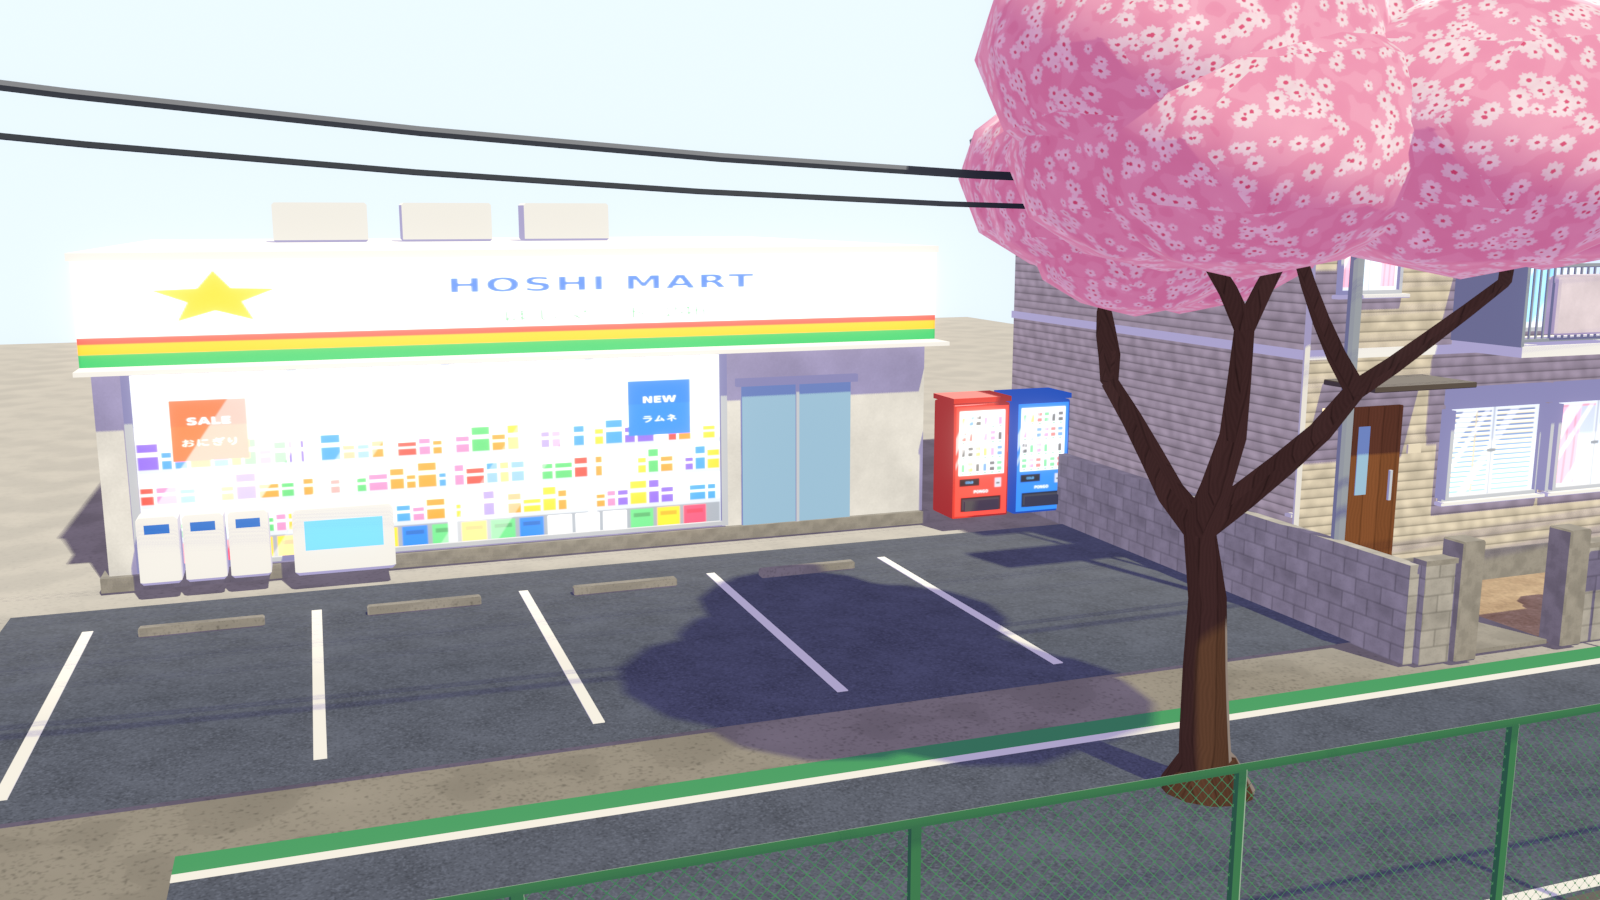
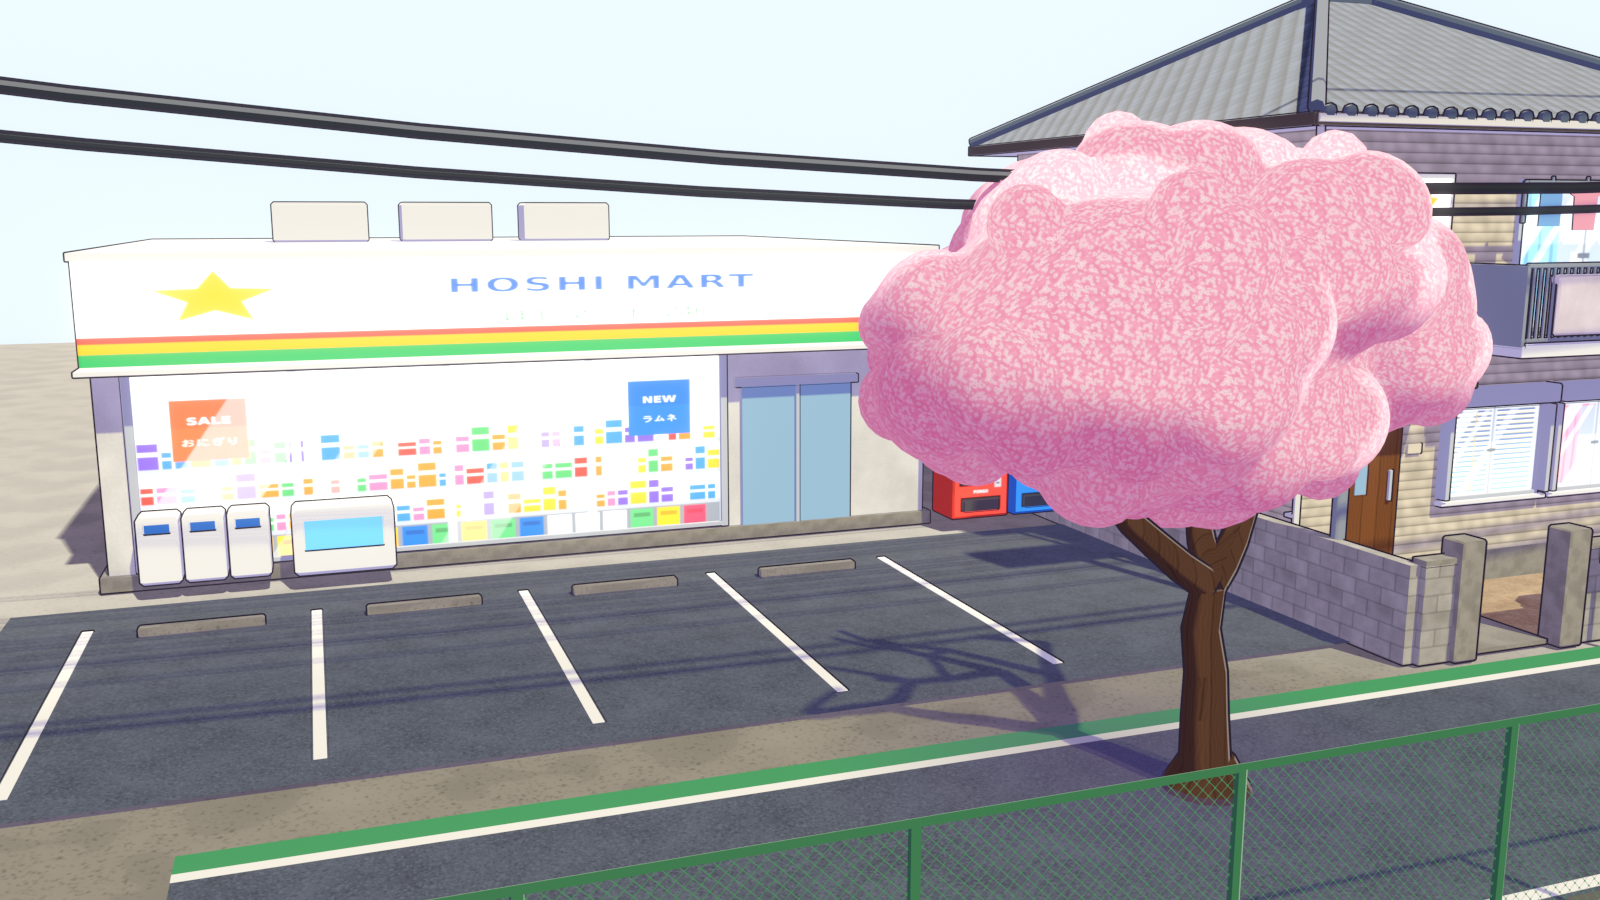
City kit polish: Ghibli-method sakura, crossing approaches, surface finish
- Sakura: branching trunk + canopy from a smooth voxel hull of limb-tip clouds,
  scalloped by puff bumps, shaded with the hull normals (one soft mass, clean
  shadow side), canopy does not self-shadow, blob ground shadow decal
- Level crossing: deck flush with the rail heads, sloped road approaches
- Street render: bevel + weighted normals on buildings/props, ink outlines,
  barrier arms placed at the crossing
- erlib: no-cast materials also skip shadows in Blender renders

Claude-Session: https://claude.ai/code/session_01EYpF4cduPNxQ6Ws8Cp9mAz

diff --git a/blender/assets/buildings.py b/blender/assets/buildings.py
@@ -655,49 +655,116 @@ def konbini(name="konbini", lod=0):
 # ----------------------------------------------------------------------------- sakura tree
 
 def sakura(name="sakura", seed=1, height=6.5, lod=0):
-    """Cherry tree: twisting trunk, forked limbs, blossom clouds at the branch tips."""
+    """Cherry tree, Ghibli method (Lightning Boy Studio): a branching trunk, then for each limb tip a cloud
+    of small blossom puffs scattered through an ellipsoid volume; all puffs take their normals from a smooth
+    hull of the clouds, so the canopy shades as one soft mass with a clean light/shadow split while the
+    silhouette stays bumpy and alive. Returns (trunk, canopy)."""
+    import characters as CH
     rnd = random.Random(seed)
     E.mat("bark", 0x5E4438, "t_wood", soft=0.15, rim=0.2, outline=1.0)
-    E.mat("blossom", 0xFFFFFF, "t_blossom", soft=0.35, rim=0.35, outline=1.0, flags=E.F_FOLIAGE, sway=0.35,
-          shadow=0xC79AC8)
-    m = E.Mesher(name)
+    E.mat("blossom", 0xFFFFFF, "t_blossom", soft=0.3, rim=0.3, outline=0.0, flags=E.F_FOLIAGE | E.F_NOCAST, sway=0.35,
+          shadow=0xC890C4)
+    E.mat("tree_shadow", 0x5A4A7A, "s_blob", flags=E.F_DECAL | E.F_NOCAST, outline=0.0, rim=0.0, soft=0.2)
+    m = E.Mesher(name + "_trunk")
     tips = []
 
     def branch(p, d, length, r, depth):
         pts = [p]
         q = Vector(p)
         dd = Vector(d).normalized()
-        n = 4 if lod == 0 else 2
+        n = 5 if lod == 0 else 2
         for i in range(n):
-            dd = (dd + Vector(((rnd.random() - 0.5) * 0.5, (rnd.random() - 0.5) * 0.5, 0.12))).normalized()
+            dd = (dd + Vector(((rnd.random() - 0.5) * 0.45, (rnd.random() - 0.5) * 0.45, 0.1))).normalized()
             q = q + dd * (length / n)
             pts.append(q.copy())
         m.mat("bark", uvscale=0.6)
-        m.tube([tuple(v) for v in pts], r=r, seg=10 if lod == 0 and depth < 2 else 6, taper=0.55)
-        if depth >= 3 or r < 0.05:
-            tips.append((q, r))
+        m.tube([tuple(v) for v in pts], r=r, seg=12 if lod == 0 and depth < 2 else 7, taper=0.6)
+        if depth == 2:
+            tips.append(q)
+        if depth >= 3 or r < 0.045:
+            tips.append(q)
             return
         k = 2 if depth > 0 else 3
         for j in range(k):
-            a = rnd.random() * 2 * math.pi
-            nd = (dd * 0.6 + Vector((math.cos(a), math.sin(a), 0.35)) * 0.8).normalized()
-            branch(q, nd, length * (0.62 + rnd.random() * 0.15), r * 0.58, depth + 1)
+            a = rnd.random() * 2 * math.pi + j * 2.1
+            nd = (dd * 0.35 + Vector((math.cos(a), math.sin(a), 0.22)) * 0.9).normalized()
+            branch(q, nd, length * (0.68 + rnd.random() * 0.15), r * 0.6, depth + 1)
 
-    trunk_h = height * 0.38
-    branch(Vector((0, 0, -0.1)), Vector((0.05, 0.02, 1)), trunk_h, 0.24, 0)
-    # root flare
+    branch(Vector((0, 0, -0.1)), Vector((0.06, 0.02, 1)), height * 0.3, 0.23, 0)
     m.mat("bark", uvscale=0.6)
-    m.cyl((0, 0, 0.12), r=0.42, r2=0.24, h=0.3, seg=12 if lod == 0 else 6)
-    # blossom clouds: clusters of displaced icospheres around tips
-    m.mat("blossom", uvscale=1.2)
-    for (q, r) in tips:
-        n = 3 if lod == 0 else 1
-        for i in range(n):
-            o = Vector(((rnd.random() - 0.5) * 1.2, (rnd.random() - 0.5) * 1.2, (rnd.random() - 0.2) * 0.6))
-            rad = 0.75 + rnd.random() * 0.5
-            m.ico(tuple(q + o), r=rad, sub=2 if lod == 0 else 1, s=(1.15, 1.15, 0.8))
-    ob = m.obj(name + ("" if lod == 0 else "@1"), smooth_angle=60)
-    return ob
+    m.cyl((0, 0, 0.12), r=0.4, r2=0.23, h=0.3, seg=14 if lod == 0 else 7)
+    trunk = m.obj(name + "_trunk" + ("" if lod == 0 else "@1"), smooth_angle=60)
+    # clouds: one ellipsoid per limb tip (slightly flattened, Ghibli-style)
+    clouds = []
+    for q in tips:
+        c = q + Vector(((rnd.random() - 0.5) * 0.4, (rnd.random() - 0.5) * 0.4, 0.15 + rnd.random() * 0.25))
+        rad = Vector((1.2, 1.2, 0.8)) * (0.9 + 0.4 * rnd.random())
+        clouds.append((c, rad))
+    # canopy = smooth hull of the clouds, scalloped by puff-shaped bumps; shading keeps the hull normals
+    def hull(mm):
+        for (c, rad) in clouds:
+            mm.sphere(tuple(c), 1.0, 20, 12, s=tuple(rad * 1.05))
+    canopy = CH.sculpt_union(name + "_canopy" + ("" if lod == 0 else "@1"), hull, "blossom",
+                             voxel=0.07 if lod == 0 else 0.14, smooth_iter=24, smooth_fac=0.8,
+                             ratio=0.6 if lod == 0 else 0.35)
+    me = canopy.data
+    vs = me.vertices
+    base_n = [v.normal.copy() for v in vs]
+    base_p = [v.co.copy() for v in vs]
+    # puff centres: random hull points, denser on top
+    idx = list(range(len(vs)))
+    rnd.shuffle(idx)
+    centres = []
+    for i in idx[: (130 if lod == 0 else 60)]:
+        rr = 0.28 + 0.26 * rnd.random()
+        centres.append((base_p[i], rr, 0.2 + 0.16 * rnd.random()))
+    from mathutils.kdtree import KDTree
+    kd = KDTree(len(centres))
+    for k, (c, rr, hh) in enumerate(centres):
+        kd.insert(c, k)
+    kd.balance()
+    for i, v in enumerate(vs):
+        bump = 0.0
+        for (co, k, d) in kd.find_range(base_p[i], 0.7):
+            c, rr, hh = centres[k]
+            if d < rr:
+                t = 1 - (d / rr) ** 2
+                bump = max(bump, hh * t ** 0.5)
+        v.co = base_p[i] + base_n[i] * (bump - 0.12)
+    E.set_smooth(canopy, 180)
+    me.normals_split_custom_set_from_vertices([tuple(n) for n in base_n])
+    # uv for the blossom pattern (box projection in world metres)
+    uvl = me.uv_layers.active or me.uv_layers.new(name="UVMap")
+    for poly in me.polygons:
+        n = poly.normal
+        ax = max(range(3), key=lambda j: abs(n[j]))
+        for li in poly.loop_indices:
+            co = vs[me.loops[li].vertex_index].co
+            u, w = (co.y, co.z) if ax == 0 else (co.x, co.z) if ax == 1 else (co.x, co.y)
+            uvl.data[li].uv = (u / 0.3, w / 0.3)
+    # soft blob shadow on the ground under the canopy (the canopy itself does not cast)
+    sm = E.Mesher(name + "_shadow").mat("tree_shadow")
+    cx = sum(c.x for c, r in clouds) / len(clouds)
+    cy = sum(c.y for c, r in clouds) / len(clouds)
+    ext = max(max(abs(c.x - cx), abs(c.y - cy)) + r.x for c, r in clouds)
+    f = sm.poly([(cx - ext, cy - ext, 0.02), (cx + ext, cy - ext, 0.02), (cx + ext, cy + ext, 0.02), (cx - ext, cy + ext, 0.02)], uv=None)
+    sm.uv_rect(f, 0, 0, 1, 1, axis=((1, 0, 0), (0, 1, 0)))
+    shadow = sm.obj(name + "_shadow" + ("" if lod == 0 else "@1"), smooth_angle=0)
+    return trunk, canopy, shadow
+
+
+def design_sakura():
+    import studio
+    E.reset()
+    studio.stage(res=(1200, 1000), floor=True, floor_col=0xB8D88A)
+    for k, x in enumerate((-4.5, 4.5)):
+        t, c, sh = sakura("sakura_%d" % k, seed=k + 3)
+        for o in (t, c, sh):
+            o.location.x = x
+        E.add_outline(t, 0.02)
+    studio.shoot("sakura", target=(0, 0, 3.2), dist=17, yaw=200, pitch=8, lens=40, light=False)
+    studio.aim_sun(200 + 80)
+    studio.shoot("sakura_side", target=(0, 0, 3.2), dist=17, yaw=200, pitch=8, lens=40, light=False)
 
 
 # ----------------------------------------------------------------------------- level crossing
@@ -762,10 +829,21 @@ def crossing(name="crossing", lod=0, seg=12.0):
         # panels between and outside the rails, flush with rail top
         for (a, b) in ((-1.05, -0.565), (-0.505, 0.505), (0.565, 1.05)):
             m.box((lx + (a + b) / 2, seg / 2, 0.08), (b - a, rw, 0.16), smooth=False)
-    for (a, b) in ((-6.4, -3.45), (-1.35, -1.05), (1.05, 1.35), (3.45, 6.4)):
-        m.box(((a + b) / 2, seg / 2, (0.16 + city.GROUND) / 2), (b - a, rw, 0.16 - city.GROUND), smooth=False)
-    for (a, b) in ((-1.35, -1.05),):
-        pass
+    # deck between the tracks (flush with the rail heads)
+    for (a, b) in ((-3.45, -3.35), (-1.35, -1.05), (1.05, 1.35), (3.35, 3.45)):
+        m.box(((a + b) / 2, seg / 2, 0.08), (b - a, rw, 0.16), smooth=False)
+    for sx in (-1, 1):
+        # outer deck to the ditch edge, then a ramp down to the street level across the side road
+        x0, x1 = sx * 3.45, sx * 5.4
+        m.box(((x0 + x1) / 2, seg / 2, 0.08), (abs(x1 - x0), rw, 0.16), smooth=False)
+        xa, xb = sx * 5.4, sx * 8.8
+        za, zb = 0.16, city.GROUND - 0.02
+        y0, y1 = seg / 2 - rw / 2, seg / 2 + rw / 2
+        quad = [(xa, y0, za), (xb, y0, zb), (xb, y1, zb), (xa, y1, za)]
+        m.poly(quad if sx > 0 else quad[::-1])
+        for yy in (y0, y1):
+            side = [(xa, yy, za), (xa, yy, city.GROUND - 0.05), (xb, yy, city.GROUND - 0.05), (xb, yy, zb)]
+            m.poly(side if (sx > 0) == (yy == y0) else side[::-1])
     # stop lines on the approach roads
     m.mat("road_line")
     for sx in (-1, 1):
@@ -832,9 +910,9 @@ def design_street():
         ob = city.wires(); ob.location.y = y0
     for i in range(3):
         ob = city.gantry(); ob.location.y = -6 + i * 24
-    arm = crossing_arm(); arm.location = (6.35, 2 * city.SEG + city.SEG / 2 - 3.0, city.GROUND + 0.9); arm.rotation_euler.z = math.radians(180)
+    arm = crossing_arm(); arm.location = (6.35, city.SEG + city.SEG / 2 - 3.0, city.GROUND + 0.9); arm.rotation_euler.z = math.radians(180)
     arm.rotation_euler.y = math.radians(-70)
-    arm2 = crossing_arm(); arm2.location = (-6.35, 2 * city.SEG + city.SEG / 2 + 3.0, city.GROUND + 0.9); arm2.rotation_euler.y = math.radians(-70)
+    arm2 = crossing_arm(); arm2.location = (-6.35, city.SEG + city.SEG / 2 + 3.0, city.GROUND + 0.9); arm2.rotation_euler.y = math.radians(-70)
     for i in range(3):
         ob = city.utility_pole(); ob.location.y = -10 + i * 24
     # ground beyond the road
@@ -863,8 +941,17 @@ def design_street():
         ob.location = (-11.0 - (1.6 if nm == "apartment" else 2.6), y + w / 2, city.GROUND)
         y += w + 2.5
     for k, (x, yy) in enumerate(((7.8, 3.5), (-8.0, 18.0), (8.2, 30.0), (-8.4, 40.0))):
-        t = sakura("sakura_%d" % k, seed=k + 1)
-        t.location = (x + (1.5 if x > 0 else -1.5), yy, city.GROUND)
+        for t in sakura("sakura_%d" % k, seed=k + 1):
+            t.location = (x + (1.5 if x > 0 else -1.5), yy, city.GROUND)
+    # surface finish: small bevels + weighted normals on buildings/props, ink outlines for the render
+    for ob in list(bpy.data.objects):
+        if ob.type != 'MESH' or ob.hide_render:
+            continue
+        nm = ob.name
+        if any(k in nm for k in ("house", "apartment", "konbini", "crossing", "gantry", "upole")):
+            E.finish_hard(ob, width=0.012, segments=2, angle=35)
+        if not any(k in nm for k in ("canopy", "shadow", "lot", "wires", "side", "track")):
+            E.add_outline(ob, 0.02)
     studio.aim_sun(200)
     studio.shoot("street_overview", target=(0, 16, 1.5), dist=30, yaw=180 + 25, pitch=24, lens=30)
     studio.shoot("street_runner", target=(0, 22, 1.6), dist=7.5, yaw=180, pitch=14, lens=24)

diff --git a/blender/assets/signs.py b/blender/assets/signs.py
@@ -157,6 +157,12 @@ def vending(name="s_vending", w=128, h=256, seed=3, body=0xE8473C):
     return c.save()
 
 
+def blob_shadow(name="s_blob", size=128):
+    c = PT.Canvas(name, size, size)
+    c.radial(size / 2, size / 2, 0, size * 0.48, 0xFFFFFF, 0xFFFFFF, 0.55, 0.0, 64)
+    return c.save()
+
+
 def build_all():
     E.reset()
     window("w_win_a", "curtain", seed=1, curtain=0xF2A6B8)
@@ -169,3 +175,4 @@ def build_all():
     konbini_sign()
     vending("s_vending", body=0xE8473C, seed=3)
     vending("s_vending_b", body=0x2E7AD8, seed=8)
+    blob_shadow()

diff --git a/blender/lib/erlib.py b/blender/lib/erlib.py
@@ -423,6 +423,8 @@ def _build_toon_nodes(bmat, gm):
         bmat.show_transparent_back = False
     if gm.flags & F_DOUBLE:
         bmat.use_backface_culling = False
+    if gm.flags & F_NOCAST:
+        bmat.shadow_method = 'NONE'
 
 
 def outline_material():
